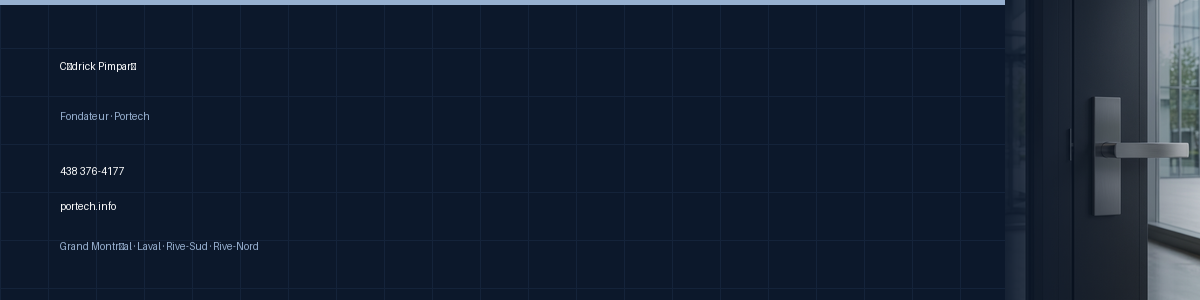
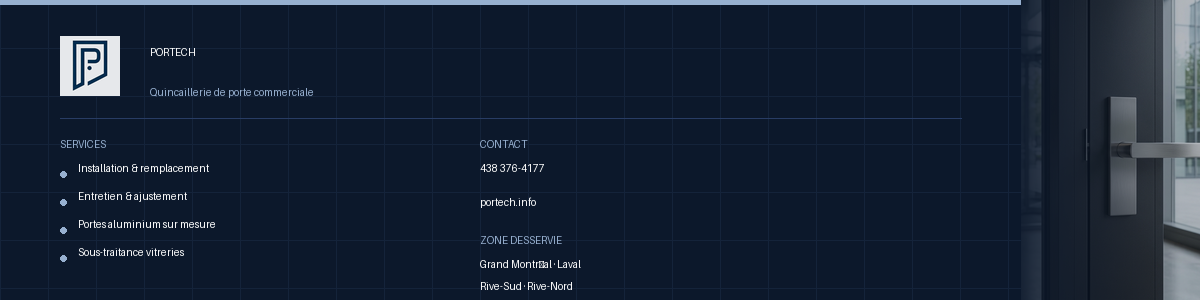
auto-commit for 7c6fb5f1-2907-4717-95f6-2cb8a9de71f7

diff --git a/scripts/generate_email_banner.py b/scripts/generate_email_banner.py
@@ -97,32 +97,37 @@ fd.rectangle([(0, 0), (FW, 4)], fill=MUTED)
 
 # Try to overlay a real product detail shot on the right side as a "showcase"
 detail_path = Path("/app/frontend/public/gbp/gbp-cover-hero.png")
+band_width = 0
 if detail_path.exists():
     detail = Image.open(detail_path).convert("RGB")
-    # Crop the right half (vertical band ~500px wide) to act as an accent
-    crop_w = 500
+    crop_w = 460
     dW, dH = detail.size
     band = detail.crop(
         (dW // 2, 0, dW // 2 + crop_w, dH) if dW > crop_w else (0, 0, dW, dH)
     )
-    # Resize the band to footer height while maintaining aspect
     ratio = FH / band.height
     band = band.resize((int(band.width * ratio), FH), Image.LANCZOS)
-    # Paste on the right
     px = FW - band.width
+    band_width = band.width
     footer.paste(band, (px, 0))
-    # Gradient overlay from dark to transparent over the band so text stays readable
     overlay = Image.new("RGBA", (band.width, FH), (0, 0, 0, 0))
     od = ImageDraw.Draw(overlay)
     for i in range(band.width):
-        # alpha goes from 240 (very dark left edge) to 60 (mostly transparent right)
-        alpha = max(60, int(240 - (i / band.width) * 180))
+        alpha = max(80, int(240 - (i / band.width) * 180))
         od.line([(i, 0), (i, FH)], fill=(12, 24, 43, alpha))
     footer.paste(overlay, (px, 0), overlay)
 
-# Footer text on the left
+# Paste the small Portech monogram in the top-left of the footer for branding
+mono_src = Path("/app/frontend/public/brand/portech-mark.png")
+if mono_src.exists():
+    mono = Image.open(mono_src).convert("RGBA")
+    target_h = 60
+    ratio = target_h / mono.height
+    mono = mono.resize((int(mono.width * ratio), target_h), Image.LANCZOS)
+    footer.paste(mono, (60, 36), mono)
+
 font_bold_md = find_font(
-    "/usr/share/fonts/truetype/dejavu/DejaVuSans-Bold.ttf", size=36,
+    "/usr/share/fonts/truetype/dejavu/DejaVuSans-Bold.ttf", size=34,
 )
 font_md = find_font(
     "/usr/share/fonts/truetype/dejavu/DejaVuSans.ttf", size=22,
@@ -130,18 +135,48 @@ font_md = find_font(
 font_sm = find_font(
     "/usr/share/fonts/truetype/dejavu/DejaVuSans.ttf", size=18,
 )
-
-fd.text((60, 60), "Cédrick Pimparé", font=font_bold_md, fill=WHITE)
-fd.text((60, 110), "Fondateur · Portech", font=font_md, fill=MUTED)
-
-# Contact stack
-fd.text((60, 165), "438 376-4177", font=font_md, fill=WHITE)
-fd.text((60, 200), "portech.info", font=font_md, fill=WHITE)
-fd.text(
-    (60, 240),
-    "Grand Montréal · Laval · Rive-Sud · Rive-Nord",
-    font=font_sm, fill=MUTED,
+font_xs = find_font(
+    "/usr/share/fonts/truetype/dejavu/DejaVuSans.ttf", size=15,
 )
+font_label = find_font(
+    "/usr/share/fonts/truetype/dejavu/DejaVuSans-Bold.ttf", size=13,
+)
+
+# Brand text next to the small monogram
+fd.text((150, 46), "PORTECH", font=font_bold_md, fill=WHITE)
+fd.text(
+    (150, 86),
+    "Quincaillerie de porte commerciale",
+    font=font_xs, fill=MUTED,
+)
+
+# Vertical separator
+fd.line([(60, 118), (FW - band_width - 60, 118)], fill=(40, 60, 100), width=1)
+
+# Two-column info layout
+# --- LEFT COLUMN: services ---
+fd.text((60, 138), "SERVICES", font=font_label, fill=MUTED)
+services = [
+    "Installation & remplacement",
+    "Entretien & ajustement",
+    "Portes aluminium sur mesure",
+    "Sous-traitance vitreries",
+]
+y = 162
+for s in services:
+    # Small dot bullet
+    fd.ellipse([(60, y + 9), (66, y + 15)], fill=MUTED)
+    fd.text((78, y), s, font=font_xs, fill=WHITE)
+    y += 28
+
+# --- RIGHT COLUMN (still on the left half): contact + zone ---
+right_x = 480
+fd.text((right_x, 138), "CONTACT", font=font_label, fill=MUTED)
+fd.text((right_x, 162), "438 376-4177", font=font_md, fill=WHITE)
+fd.text((right_x, 196), "portech.info", font=font_md, fill=WHITE)
+fd.text((right_x, 234), "ZONE DESSERVIE", font=font_label, fill=MUTED)
+fd.text((right_x, 258), "Grand Montréal · Laval", font=font_xs, fill=WHITE)
+fd.text((right_x, 280), "Rive-Sud · Rive-Nord", font=font_xs, fill=WHITE)
 
 footer.save(OUT / "email-footer.png", "PNG", optimize=True)
 print(f"Wrote email-footer.png ({footer.size})")
